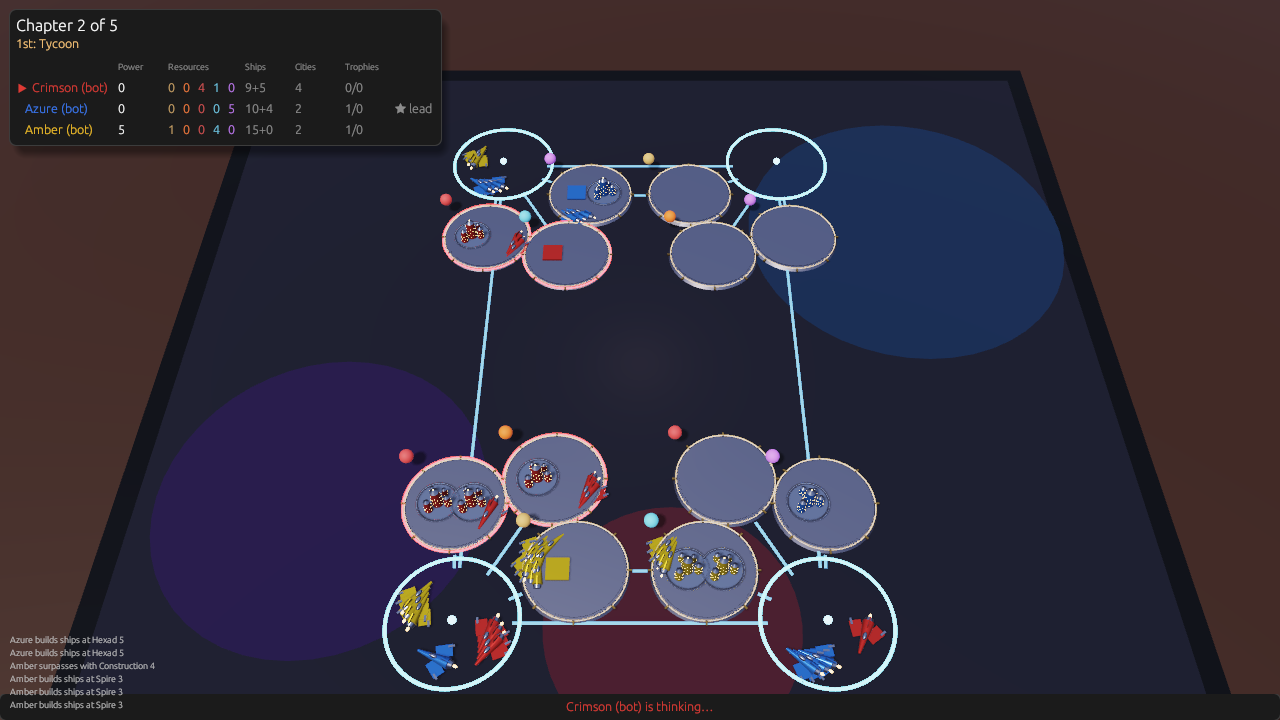
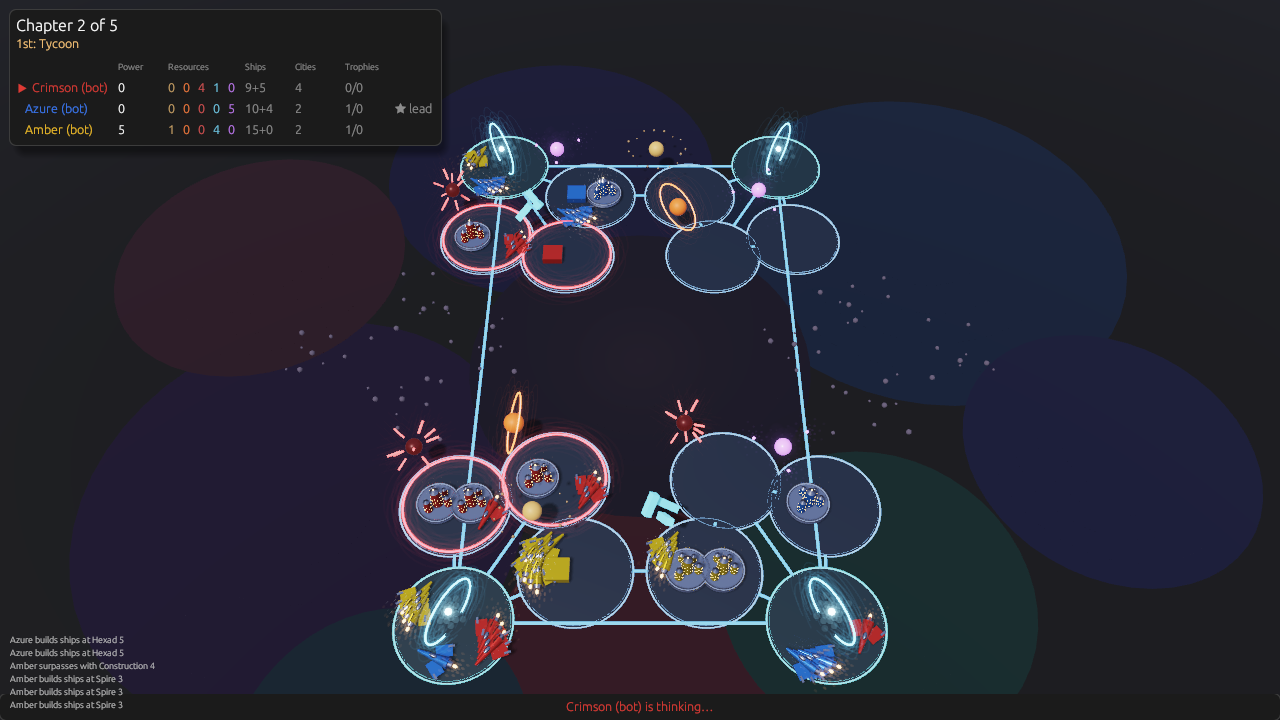
Stage 2: space look with planet types, stargates, nebula, bloom
Claude-Session: https://claude.ai/code/session_01GURgk2nrMjgnxzme3a51i1

diff --git a/game/src/main.rs b/game/src/main.rs
@@ -22,7 +22,7 @@ use dust_engine::sdl2::event::Event;
 use dust_engine::sdl2::keyboard::Keycode;
 use dust_engine::sdl2::mouse::MouseButton;
 use dust_engine::shader::builtin::{PbrMaterial, PointLight, SceneLighting};
-use dust_engine::shader::{ShaderVariantCache, PBR_MESH_FRAG, PBR_MESH_VERT, TONEMAP_COMPOSITE_FRAG};
+use dust_engine::shader::{ShaderVariantCache, PBR_MESH_FRAG, PBR_MESH_VERT};
 use dust_engine::texture::{GpuTexture, TextureFilter};
 use dust_engine::ui::EguiState;
 use reach_rules::{Action, Phase, Slot, State, SYSTEMS};
@@ -272,30 +272,90 @@ impl Ember {
 
         let tr = |p: Vec3, r: Quat, s: Vec3| Mat4::from_scale_rotation_translation(s, r, p);
         let mut st: Vec<Item> = Vec::new();
-        // table and board
-        st.push(Item { mesh: cube, model: tr(Vec3::new(0.0, -0.45, 0.0), Quat::IDENTITY, Vec3::new(64.0, 0.7, 56.0)), material: PbrMaterial { roughness: 0.55, ..PbrMaterial::plastic(lin([60, 38, 26])) }, casts: false });
-        st.push(Item { mesh: cube, model: tr(Vec3::new(0.0, -0.12, 0.0), Quat::IDENTITY, Vec3::new(28.0, 0.3, 26.0)), material: PbrMaterial { roughness: 0.35, metallic: 0.6, ..PbrMaterial::plastic(lin([26, 28, 34])) }, casts: true });
-        st.push(Item { mesh: cube, model: tr(Vec3::new(0.0, 0.0, 0.0), Quat::IDENTITY, Vec3::new(26.8, 0.1, 24.8)), material: PbrMaterial { roughness: 0.9, ..PbrMaterial::plastic(lin([14, 18, 40])) }, casts: false });
-        for (x, z, r, c) in [(-8.5, 4.5, 4.4, [60u8, 30, 110]), (8.5, -5.0, 5.0, [20, 70, 120]), (0.8, 8.0, 3.2, [110, 40, 70])] {
-            st.push(Item { mesh: cyl, model: tr(Vec3::new(x, 0.052, z), Quat::IDENTITY, Vec3::new(r * 2.0, 0.004, r * 2.0)), material: PbrMaterial { roughness: 1.0, emissive: lin(c).map(|v| v * 0.22), ..PbrMaterial::plastic(lin(c).map(|v| v * 0.1)) }, casts: false });
+        // space: a near-black sheet to catch shadows, and layered nebula clouds
+        st.push(Item { mesh: cube, model: tr(Vec3::new(0.0, -0.3, 0.0), Quat::IDENTITY, Vec3::new(120.0, 0.2, 120.0)), material: PbrMaterial { roughness: 0.9, ..PbrMaterial::plastic(lin([6, 7, 14])) }, casts: false });
+        let clouds: [(f32, f32, f32, [u8; 3]); 9] = [
+            (-9.0, 4.5, 6.0, [70, 30, 120]),
+            (9.0, -5.0, 6.5, [20, 80, 140]),
+            (0.8, 9.0, 4.5, [130, 40, 80]),
+            (-3.0, -8.0, 5.5, [40, 40, 130]),
+            (6.0, 7.0, 4.0, [20, 110, 110]),
+            (-12.0, -4.0, 4.5, [110, 50, 90]),
+            (13.0, 3.0, 4.0, [50, 60, 140]),
+            (0.0, 0.0, 5.0, [50, 30, 90]),
+            (-6.0, 11.0, 3.5, [30, 90, 120]),
+        ];
+        for (k, (x, z, r, c)) in clouds.iter().enumerate() {
+            for layer in 0..5 {
+                let rr = r * (1.0 - layer as f32 * 0.17);
+                let y = -0.15 + k as f32 * 0.004 + layer as f32 * 0.0015;
+                st.push(Item { mesh: cyl, model: tr(Vec3::new(*x, y, *z), Quat::IDENTITY, Vec3::new(rr * 2.0, 0.0008, rr * 2.0)), material: PbrMaterial { roughness: 1.0, emissive: lin(*c).map(|v| v * 0.07), ..PbrMaterial::plastic(lin(*c).map(|v| v * 0.04)) }, casts: false });
+            }
         }
         let mut static_sys: Vec<Option<usize>> = vec![None; st.len()];
-        // systems: planets get a platform and a coloured planet, gates a ring
+        // systems: a glowing node disc for ships, a planet per type, a stargate per gate
+        let bar = cube;
         for i in 0..SYSTEMS {
             let p = system_pos(i);
-            let first = st.len();
+            let node_col = if State::planet_type(i).is_some() { [0.25, 0.55, 1.0] } else { [0.2, 0.9, 1.0] };
+            st.push(Item { mesh: cyl, model: tr(p + Vec3::new(0.0, 0.02, 0.0), Quat::IDENTITY, Vec3::new(2.9, 0.02, 2.9)), material: PbrMaterial { roughness: 0.6, emissive: node_col.map(|v| v * 0.02), ..PbrMaterial::plastic([0.004, 0.007, 0.02]) }, casts: false });
+            st.push(Item { mesh: self.ring_mesh, model: tr(p + Vec3::new(0.0, 0.04, 0.0), Quat::IDENTITY, Vec3::splat(0.97)), material: PbrMaterial { emissive: node_col.map(|v| v * 0.7), ..PbrMaterial::plastic([0.1; 3]) }, casts: false });
             if let Some(ty) = State::planet_type(i) {
-                st.push(Item { mesh: platform.hull, model: tr(p + Vec3::new(0.0, 0.05, 0.0), Quat::IDENTITY, Vec3::ONE), material: PbrMaterial::metal(lin([150, 150, 165]), 0.4), casts: true });
-                st.push(Item { mesh: platform.team, model: tr(p + Vec3::new(0.0, 0.05, 0.0), Quat::IDENTITY, Vec3::ONE), material: PbrMaterial::metal(lin([200, 160, 90]), 0.35), casts: true });
-                st.push(Item { mesh: platform.glow, model: tr(p + Vec3::new(0.0, 0.05, 0.0), Quat::IDENTITY, Vec3::ONE), material: PbrMaterial { emissive: [0.6, 0.4, 0.15], ..PbrMaterial::plastic([0.2, 0.2, 0.2]) }, casts: false });
                 let pc = PLANET_COLORS[ty];
-                st.push(Item { mesh: sphere, model: tr(p + Vec3::new(-1.35, 0.62, -1.15), Quat::IDENTITY, Vec3::splat(0.38)), material: PbrMaterial { roughness: 0.7, emissive: lin(pc).map(|v| v * 0.25), ..PbrMaterial::plastic(lin(pc)) }, casts: true });
+                let c = p + Vec3::new(-1.1, 0.95, -1.25);
+                let pm = PbrMaterial { roughness: 0.55, emissive: lin(pc).map(|v| v * 0.22), ..PbrMaterial::plastic(lin(pc)) };
+                let glow = PbrMaterial { emissive: lin(pc).map(|v| v * 2.4), ..PbrMaterial::plastic([0.1; 3]) };
+                let spin = i as f32 * 0.9;
+                match ty {
+                    0 => {
+                        // Material: rocky world with an asteroid belt
+                        st.push(Item { mesh: sphere, model: tr(c, Quat::IDENTITY, Vec3::splat(0.5)), material: pm, casts: true });
+                        for k in 0..16 {
+                            let a = k as f32 / 16.0 * TAU + spin;
+                            let r = 0.85 + (k % 3) as f32 * 0.06;
+                            st.push(Item { mesh: sphere, model: tr(c + Vec3::new(a.cos() * r, 0.1 * (k % 2) as f32 - 0.05, a.sin() * r), Quat::IDENTITY, Vec3::splat(0.05 + (k % 4) as f32 * 0.012)), material: PbrMaterial::plastic(lin([150, 125, 95])), casts: true });
+                        }
+                    }
+                    1 => {
+                        // Fuel: gas giant with a glowing ring
+                        st.push(Item { mesh: sphere, model: tr(c, Quat::IDENTITY, Vec3::splat(0.55)), material: pm, casts: true });
+                        st.push(Item { mesh: self.ring_mesh, model: tr(c, Quat::from_rotation_z(0.45 + spin * 0.1), Vec3::splat(0.55)), material: glow, casts: false });
+                    }
+                    2 => {
+                        // Weapons: dark world bristling with red spikes
+                        st.push(Item { mesh: sphere, model: tr(c, Quat::IDENTITY, Vec3::splat(0.45)), material: PbrMaterial { roughness: 0.4, metallic: 0.6, emissive: lin(pc).map(|v| v * 0.12), ..PbrMaterial::plastic(lin([60, 30, 34])) }, casts: true });
+                        for k in 0..10 {
+                            let a = k as f32 * 2.399 + spin;
+                            let el = (k as f32 * 0.7).sin() * 0.9;
+                            let d = Vec3::new(a.cos() * el.cos(), el.sin(), a.sin() * el.cos());
+                            st.push(Item { mesh: bar, model: tr(c + d * 0.55, Quat::from_rotation_arc(Vec3::X, d), Vec3::new(0.36, 0.05, 0.05)), material: glow, casts: false });
+                        }
+                    }
+                    3 => {
+                        // Relics: floating crystal shards
+                        for k in 0..3 {
+                            let a = k as f32 * TAU / 3.0 + spin;
+                            let q = Quat::from_rotation_y(a) * Quat::from_rotation_z(0.6) * Quat::from_rotation_x(0.6);
+                            st.push(Item { mesh: bar, model: tr(c + Vec3::new(a.cos() * 0.28, (k as f32) * 0.18 - 0.1, a.sin() * 0.28), q, Vec3::new(0.2, 0.62, 0.2)), material: PbrMaterial { roughness: 0.15, metallic: 0.2, emissive: lin(pc).map(|v| v * 0.9), ..PbrMaterial::plastic(lin(pc)) }, casts: true });
+                        }
+                    }
+                    _ => {
+                        // Psionic: glowing mind-world with orbiting moons
+                        st.push(Item { mesh: sphere, model: tr(c, Quat::IDENTITY, Vec3::splat(0.46)), material: PbrMaterial { roughness: 0.3, emissive: lin(pc).map(|v| v * 1.0), ..PbrMaterial::plastic(lin(pc)) }, casts: false });
+                        for k in 0..3 {
+                            let a = k as f32 * TAU / 3.0 + spin;
+                            st.push(Item { mesh: sphere, model: tr(c + Vec3::new(a.cos() * 0.82, 0.18 * (k as f32 - 1.0), a.sin() * 0.82), Quat::IDENTITY, Vec3::splat(0.09)), material: glow, casts: false });
+                        }
+                    }
+                }
             } else {
-                st.push(Item { mesh: self.ring_mesh, model: tr(p + Vec3::new(0.0, 0.2, 0.0), Quat::IDENTITY, Vec3::splat(1.1)), material: PbrMaterial { emissive: [0.4, 1.6, 2.2], ..PbrMaterial::plastic([0.1; 3]) }, casts: false });
-                st.push(Item { mesh: sphere, model: tr(p + Vec3::new(0.0, 0.3, 0.0), Quat::IDENTITY, Vec3::splat(0.22)), material: PbrMaterial { emissive: [0.8, 2.0, 3.0], ..PbrMaterial::plastic([0.2; 3]) }, casts: false });
+                // Gate: an upright ring with a bright core
+                let c = p + Vec3::new(0.0, 0.85, 0.0);
+                let face = Quat::from_rotation_y(-((i / 4) as f32) * TAU / 6.0) * Quat::from_rotation_x(std::f32::consts::FRAC_PI_2);
+                st.push(Item { mesh: self.ring_mesh, model: tr(c, face, Vec3::splat(0.58)), material: PbrMaterial { emissive: [0.5, 1.9, 2.8], ..PbrMaterial::plastic([0.1; 3]) }, casts: false });
+                st.push(Item { mesh: sphere, model: tr(c, Quat::IDENTITY, Vec3::splat(0.17)), material: PbrMaterial { emissive: [2.0, 4.0, 5.0], ..PbrMaterial::plastic([0.2; 3]) }, casts: false });
             }
             static_sys.resize(st.len(), Some(i));
-            let _ = first;
         }
         static_sys.resize(st.len(), None);
         // starfield dome (not shadow casting)
@@ -394,6 +454,18 @@ impl Ember {
         let city_glow = PbrMaterial { emissive: [2.6, 1.5, 0.5], ..PbrMaterial::plastic([1.0, 0.7, 0.3]) };
         let bob = |i: usize| (self.clock * 1.6 + i as f32 * 1.7).sin() * 0.02;
 
+        // out-of-play clusters: drifting dust
+        for sys in 0..SYSTEMS {
+            if s.in_play(sys) {
+                continue;
+            }
+            let c = system_pos(sys);
+            for k in 0..9 {
+                let a = k as f32 * 2.39 + sys as f32 * 1.7 + self.clock * 0.05 * (1.0 + (k % 3) as f32);
+                let r = 0.3 + (k % 5) as f32 * 0.28;
+                out.push(Item { mesh: self.sphere_mesh, model: tr(c + Vec3::new(a.cos() * r, 0.25 + (k % 4) as f32 * 0.15, a.sin() * r), Quat::IDENTITY, Vec3::splat(0.07 + (k % 3) as f32 * 0.04)), material: PbrMaterial { roughness: 1.0, emissive: [0.04, 0.035, 0.05], ..PbrMaterial::plastic(lin([70, 65, 80])) }, casts: false });
+            }
+        }
         // lanes
         for &(a, b) in &self.lanes {
             let (pa, pb) = (system_pos(a), system_pos(b));
@@ -401,7 +473,7 @@ impl Ember {
             let len = d.length() - 2.9;
             let mid = (pa + pb) * 0.5 + Vec3::new(0.0, 0.07, 0.0);
             let rot = Quat::from_rotation_y(-d.z.atan2(d.x));
-            out.push(Item { mesh: self.bar_mesh, model: tr(mid, rot, Vec3::new(len.max(0.1), 0.012, 0.08)), material: PbrMaterial { emissive: [0.18, 0.5, 0.9], ..PbrMaterial::plastic([0.05, 0.1, 0.2]) }, casts: false });
+            out.push(Item { mesh: self.bar_mesh, model: tr(mid, rot, Vec3::new(len.max(0.1), 0.012, 0.08)), material: PbrMaterial { emissive: [0.15, 0.5, 1.0], ..PbrMaterial::plastic([0.05, 0.1, 0.2]) }, casts: false });
         }
         // buildings
         for sys in 0..SYSTEMS {
@@ -518,7 +590,7 @@ impl Ember {
 impl Game for Ember {
     fn init(&mut self, ctx: &mut Context) -> anyhow::Result<()> {
         let gl = ctx.gl_arc();
-        let mut renderer = Renderer::new(&gl, ctx.drawable_size(), 1.0, TONEMAP_COMPOSITE_FRAG)?;
+        let mut renderer = Renderer::new(&gl, ctx.drawable_size(), 1.0, include_str!("bloom.frag"))?;
         renderer.set_shadow_settings(&gl, ShadowSettings::smooth());
         renderer.set_exposure(1.05);
         renderer.set_resolution_scale(1.0);
